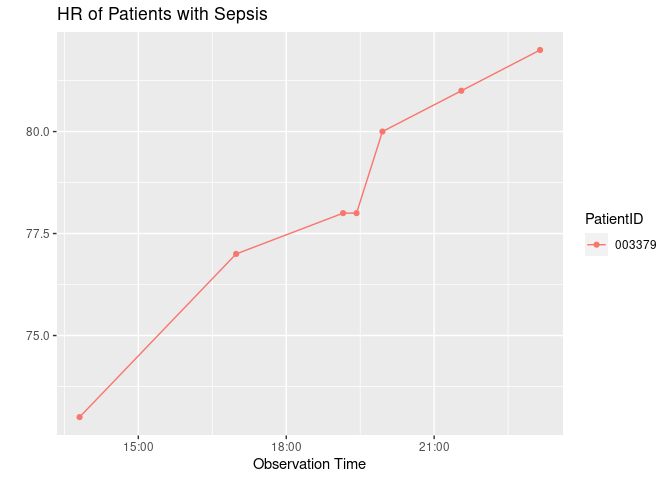
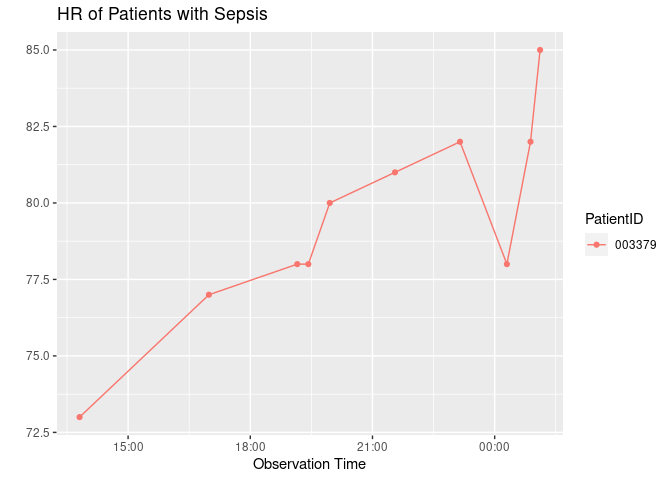
Updated report

diff --git a/README.md b/README.md
@@ -8,11 +8,11 @@ Yansong Wen
 
 \#TASK 4
 
-    [1] "2023-04-10 23:18:36 UTC"
+    [1] "2023-04-11 01:20:57 UTC"
 
 | PatientID |  HR | Temp | Resp |
 |:----------|----:|-----:|-----:|
-| 003379    |  82 |   NA |   25 |
+| 003379    |  85 |   NA |   32 |
 
 ![](README_files/figure-commonmark/unnamed-chunk-4-1.png)
 
@@ -22,56 +22,56 @@ Yansong Wen
 
 | PatientID | dHR | dTemp | dResp |
 |:----------|----:|------:|------:|
-| 000098    |   0 | -0.08 |     2 |
-| 000135    |  10 |  0.10 |     0 |
-| 000150    |  -7 |    NA |    -3 |
-| 000536    |  -4 |    NA |     6 |
-| 000958    |  -3 |    NA |     1 |
-| 001241    |  -3 | -0.20 |     2 |
-| 001553    |  12 |  0.15 |    NA |
+| 000098    |   5 |    NA |     2 |
+| 000135    |  10 |   0.1 |     0 |
+| 000150    |   4 |    NA |     2 |
+| 000536    |   2 |    NA |     3 |
+| 000958    |   2 |    NA |     2 |
+| 001241    |   1 |   0.1 |    -4 |
+| 001553    |   0 |   0.0 |    NA |
 | 001850    |  NA |    NA |    NA |
-| 001903    |  -4 |  0.00 |     0 |
-| 002116    |  25 |    NA |    -2 |
-| 002171    |  -4 |    NA |     0 |
+| 001903    |  -3 |    NA |    -3 |
+| 002116    |  -8 |    NA |     5 |
+| 002171    |   5 |    NA |     0 |
 | 002247    |  -2 |    NA |     1 |
-| 002321    |  -2 |    NA |    -4 |
-| 002480    |   5 |    NA |    -4 |
-| 002819    |   1 |    NA |    NA |
+| 002321    |   0 |    NA |    -6 |
+| 002480    |   7 |    NA |     5 |
+| 002819    |  -3 |    NA |    -6 |
 | 002945    |   0 |    NA |     1 |
-| 003379    |   1 |    NA |    -2 |
-| 004127    |   5 |    NA |    -6 |
-| 004201    |   6 |    NA |     0 |
+| 003379    |   3 |    NA |     7 |
+| 004127    |  -6 |    NA |     8 |
+| 004201    |  -5 |    NA |    -3 |
 | 004402    |  NA |    NA |    NA |
 | 004768    |  NA |    NA |    NA |
 | 004772    |   0 |    NA |    -4 |
-| 004902    |  -1 |    NA |    NA |
-| 004927    |   1 |    NA |     3 |
-| 004978    |  16 |  0.00 |     0 |
-| 005062    |   7 |    NA |     5 |
-| 005131    |   2 |  0.00 |     5 |
-| 005135    |  -3 |    NA |     1 |
-| 005854    |   3 |    NA |     4 |
+| 004902    |   0 |    NA |     3 |
+| 004927    |   7 |    NA |     3 |
+| 004978    | -15 |    NA |     0 |
+| 005062    |  -1 |    NA |    -1 |
+| 005131    |  -1 |    NA |    -4 |
+| 005135    |   4 |    NA |    -2 |
+| 005854    |  -2 |    NA |    -2 |
 | 005858    |  NA |    NA |    NA |
-| 005946    |  -4 |    NA |    -1 |
-| 005980    |   7 |    NA |    NA |
-| 006349    |   1 |  0.20 |    NA |
-| 006534    |   0 |    NA |   -22 |
-| 006827    |  -9 |  0.10 |     1 |
-| 006987    |   0 |  0.00 |     0 |
+| 005946    |   2 |    NA |    12 |
+| 005980    |   3 |    NA |    NA |
+| 006349    |   3 |   0.0 |    -2 |
+| 006534    |   1 |    NA |    -6 |
+| 006827    |   2 |  -0.1 |     1 |
+| 006987    |   0 |   0.0 |    -2 |
 | 007029    |   0 |    NA |    -2 |
 | 007041    |  NA |    NA |    NA |
 | 007541    |   0 |    NA |     0 |
 | 007567    |  -3 |    NA |     4 |
-| 007586    |  -6 |  0.00 |     4 |
-| 007742    |   2 | -0.10 |     1 |
-| 007753    |  -6 |    NA |    -3 |
+| 007586    |   2 |   0.2 |    -2 |
+| 007742    |   2 |   0.1 |     2 |
+| 007753    |   2 |    NA |     0 |
 | 008527    |  -3 |    NA |     1 |
-| 008638    |  21 |    NA |     9 |
-| 008639    |   0 |  0.00 |     0 |
-| 008828    |   0 |  0.10 |     0 |
-| 009301    |   2 |    NA |    -2 |
+| 008638    |  -4 |    NA |    -9 |
+| 008639    |   3 |   0.2 |    -2 |
+| 008828    |  -2 |   0.0 |     0 |
+| 009301    |   4 |    NA |     0 |
 | 009610    |  13 |    NA |     0 |
-| 009821    |   0 |    NA |    -4 |
+| 009821    |  17 |    NA |    -2 |
 
 Changes of heart rate, temperature, and respiratory rate for all
 patients in the lasted 2 observations
